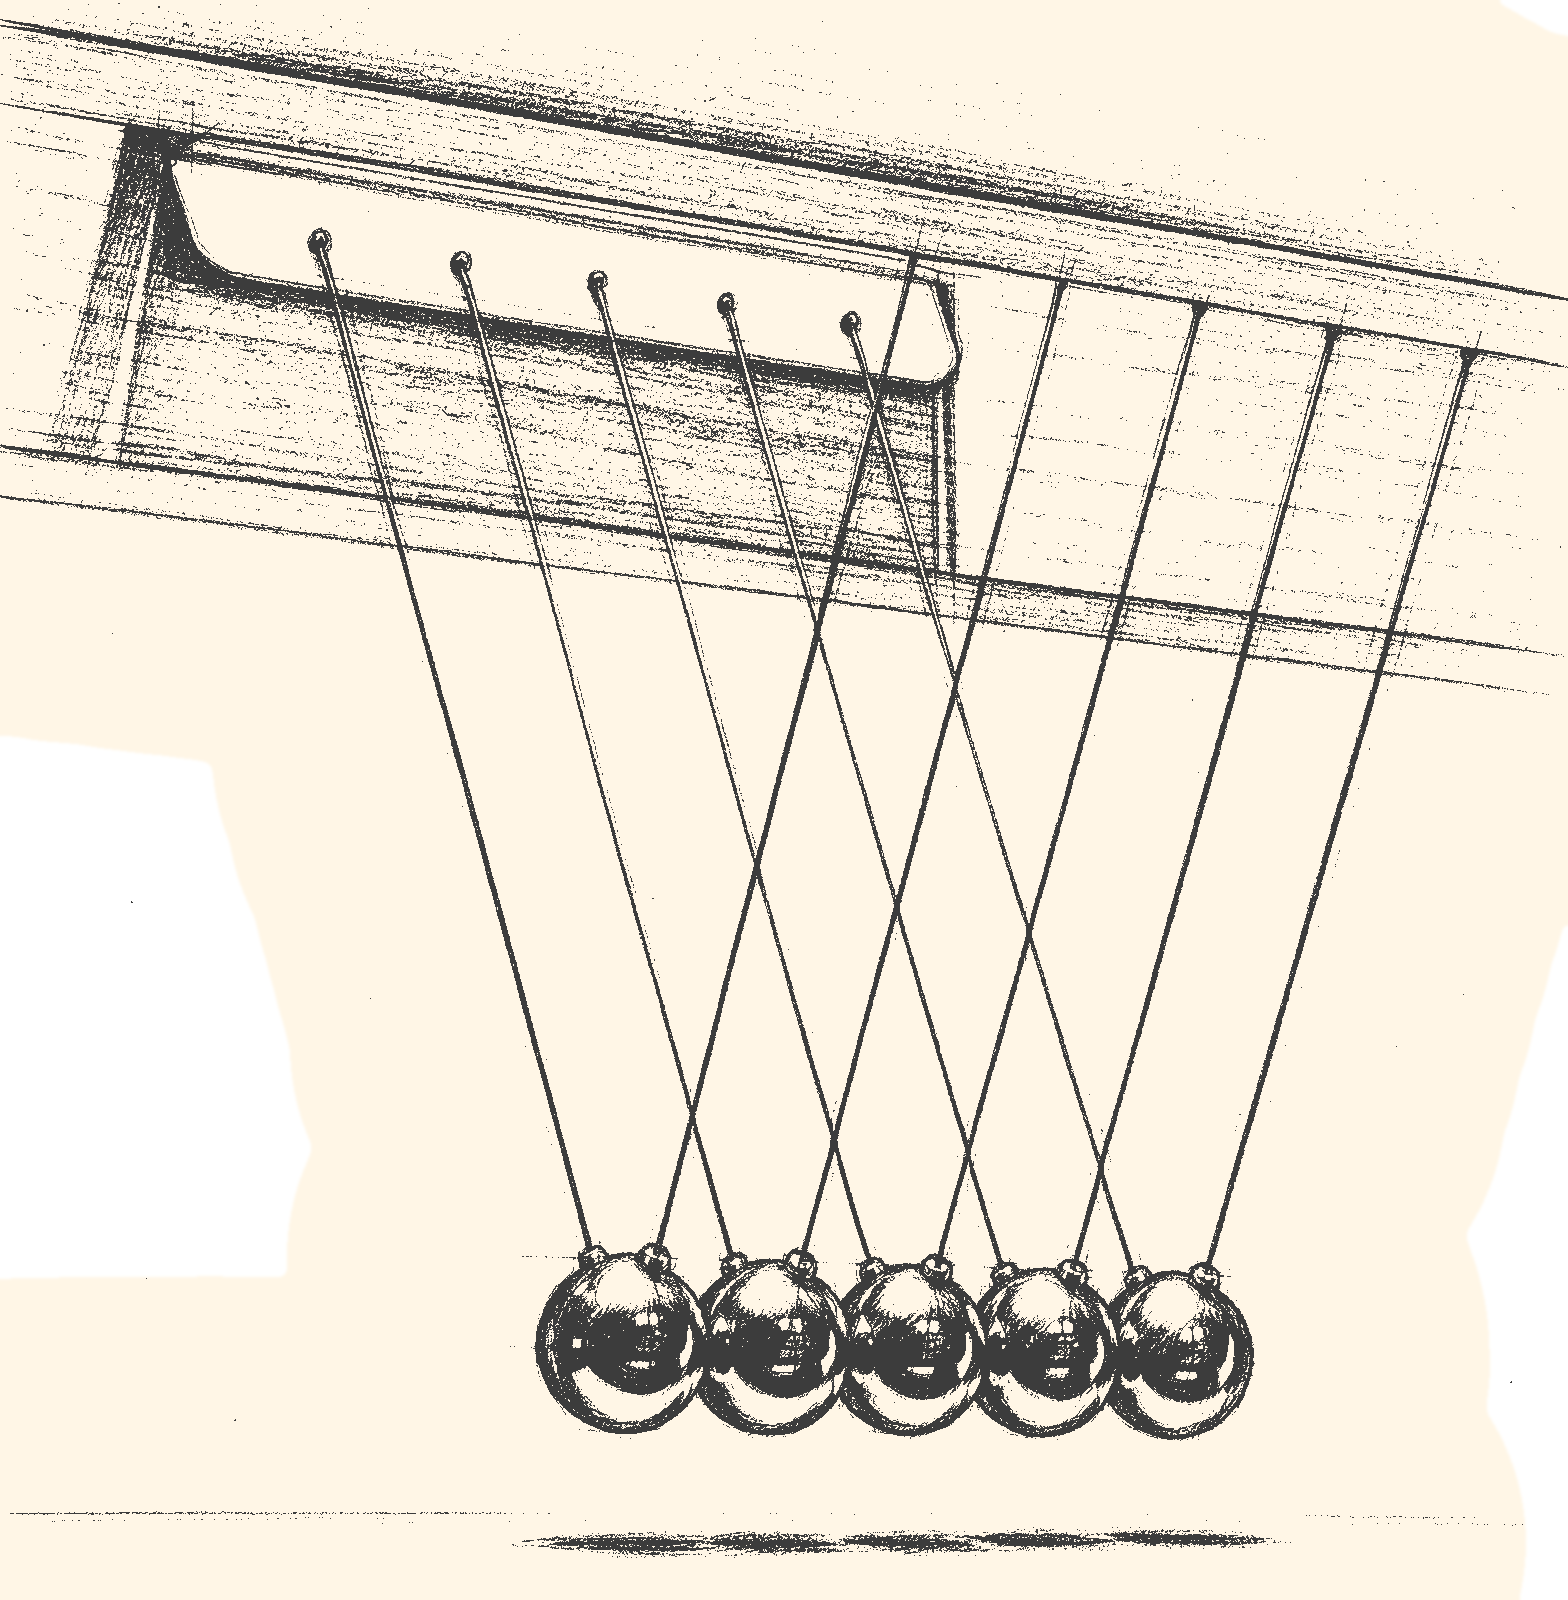
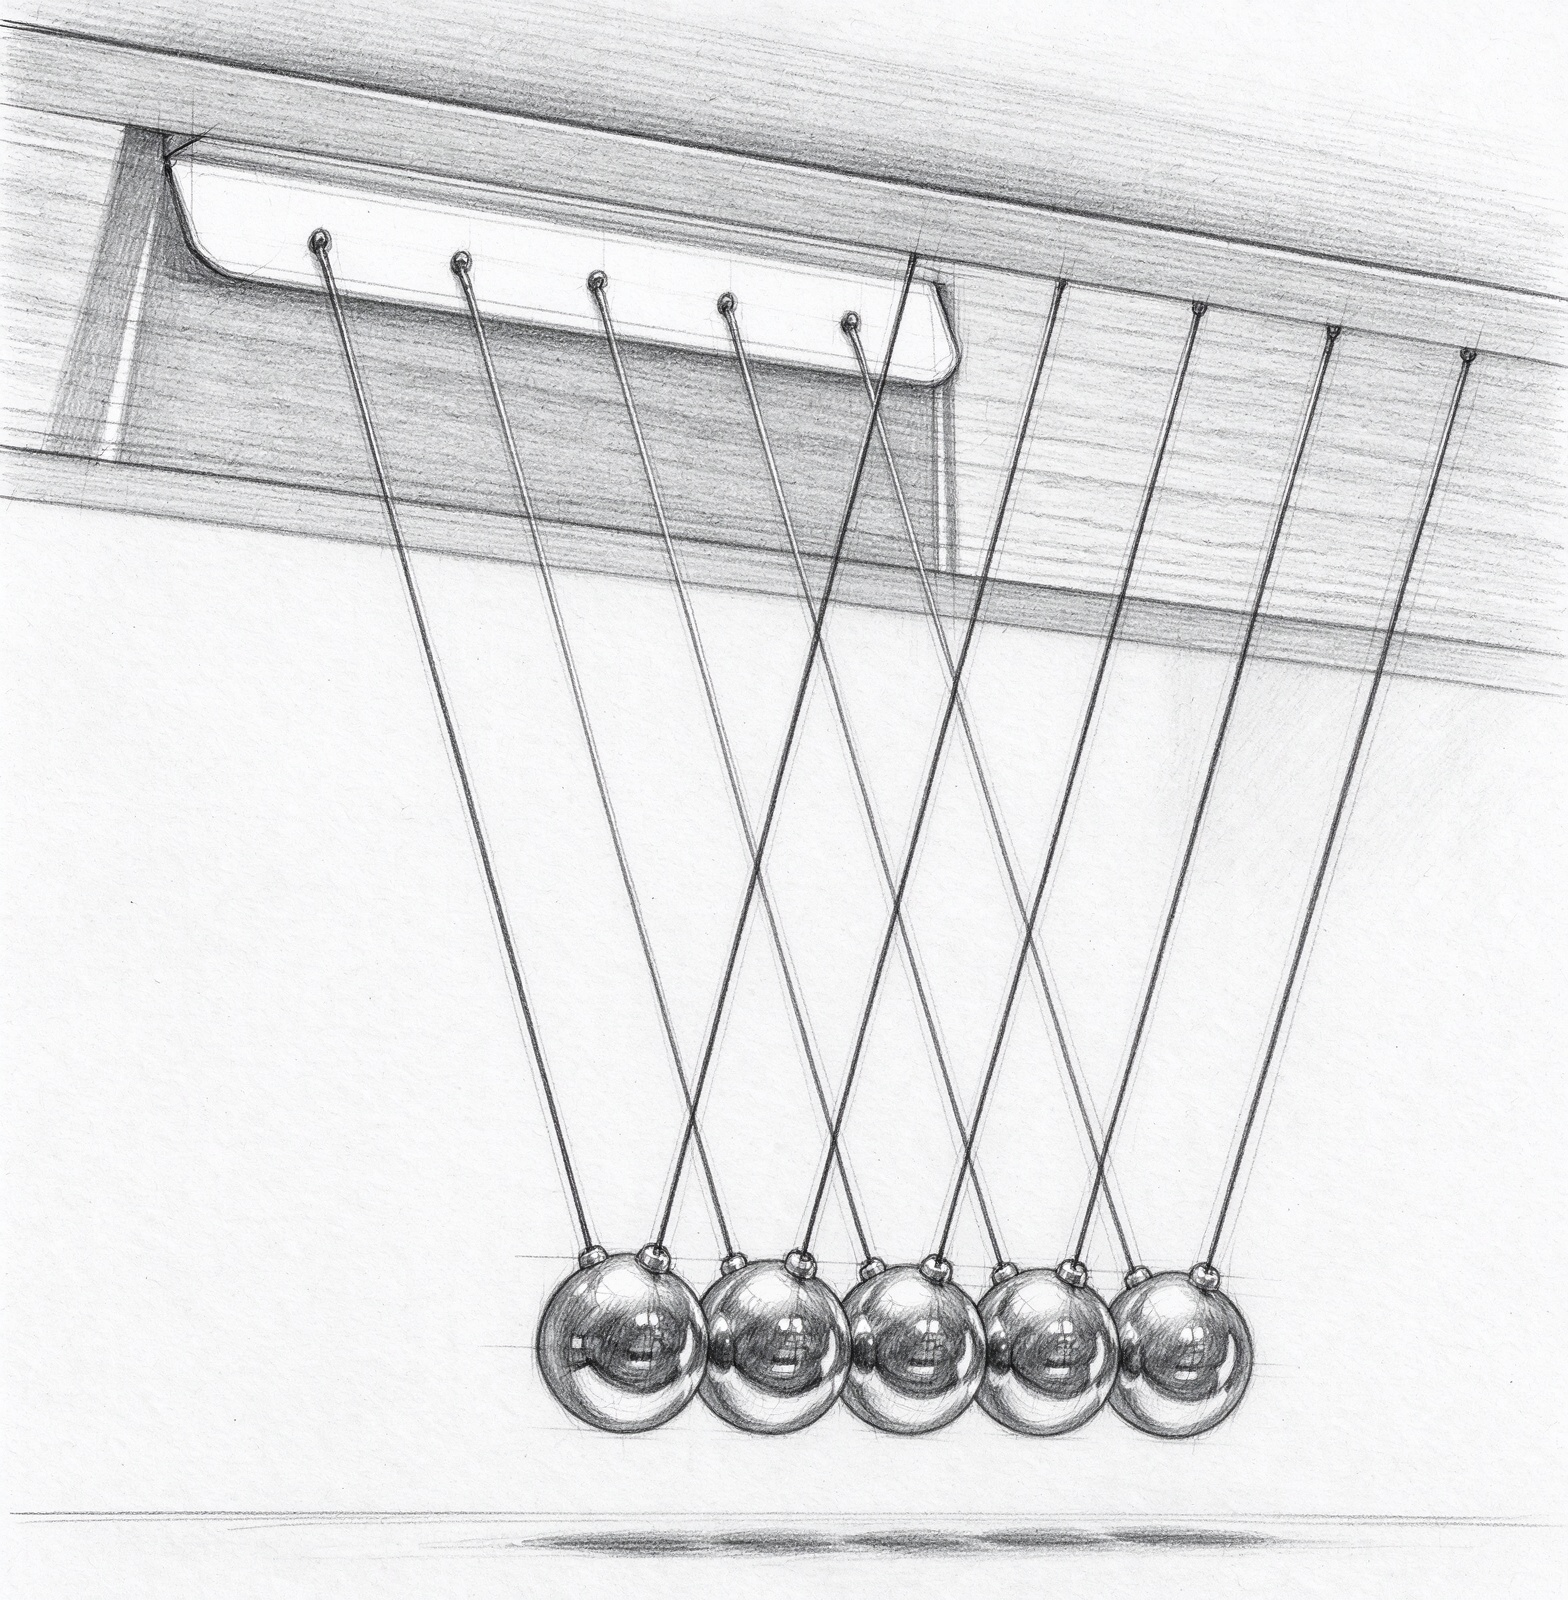
feat: sketch normalization workflow + normalize-sketch.py script

diff --git a/cases/newton-cradle/src/main.js b/cases/newton-cradle/src/main.js
@@ -68,6 +68,7 @@ class App {
     this.btnView3D = document.getElementById('btn-view-3d');
     this.btnReset = document.getElementById('btn-reset');
     this.soundBtn = document.getElementById('panel-sound-btn');
+    this.morphSlider = document.getElementById('morph-slider');
     this.scrubberMute = document.getElementById('scrubber-mute');
     this.playerScrubber = document.getElementById('player-scrubber');
     this.scrubberPlay = document.getElementById('scrubber-play');
@@ -221,7 +222,7 @@ class App {
 
       const img = texture.image;
       const aspect = img.width / img.height;       // w / h
-      const standH = 0.35;                           // match cradle 3D height
+      const standH = 0.37;                           // = 3D model total height (L + ballR + beam)
       const standW = standH * aspect;
 
       const geom = new THREE.PlaneGeometry(standW, standH);
@@ -267,13 +268,15 @@ class App {
   }
 
   autoFitDistance(viewName, margin = 1.6) {
-    const box = new THREE.Box3().setFromObject(this.mechanism.group);
-    if (box.isEmpty()) {
-      // No model yet (SKETCH/LIFT): fit the paper with desk visible
-      return this.getFitDistance(2.5, 1.5);
+    const modelVisible = this.mechanism.group.visible && this.mechanism.group.children.length > 0;
+    if (!modelVisible) return this.getFitDistance(3.4, 2.4);
+    // Cache the model bbox once (first time model appears) — don't recompute each step
+    if (!this._modelBBox) {
+      const box = new THREE.Box3().setFromObject(this.mechanism.group);
+      if (!box.isEmpty()) this._modelBBox = box;
+      else return this.getFitDistance(3.4, 2.4);
     }
-    // Model visible: fit the model itself
-    const size = box.getSize(new THREE.Vector3());
+    const size = this._modelBBox.getSize(new THREE.Vector3());
     let w, h;
     if (viewName === 'Top') { w = size.x; h = size.z; }
     else if (viewName === 'Side') { w = size.x; h = size.y; }
@@ -383,6 +386,7 @@ class App {
   resetToFirstFrame() {
     if (this.tourAbortController) { this.tourAbortController.abort(); this.tourAbortController = null; }
     this.isTourRunning = true;
+    this._modelBBox = null;
     this.setPlayButtonState(false);
     this.setSlowMo(false);
 
@@ -500,6 +504,67 @@ class App {
       this.setCameraView('Hero', 0);
     }
     this.physicsCard.style.opacity = (i === 4) ? '1' : '0';
+
+    // Update sketch2sim badge + slider
+    const badge = document.getElementById('morph-stage');
+    if (badge) {
+      const names = ['SKETCH','LIFT','MODEL','MATERIAL','PHYSICS','PLAY','REPLAY','BUILD'];
+      badge.textContent = names[i] || '';
+    }
+    if (this.morphSlider) this.morphSlider.value = Math.round((i / 7) * 100);
+  }
+
+  // Continuous morph: v = 0..100 (0=SKETCH, 33=LIFT, 66=MODEL, 100=MATERIAL)
+  // Does NOT change camera view — only morphs the visual state.
+  applyMorphToStage(v) {
+    const m = this.mechanism;
+    if (v <= 0) {
+      this.environment.showPaperSketch();
+      if (m) m.group.visible = false;
+      if (this.cutoutMesh) this.cutoutMesh.visible = false;
+      return;
+    }
+    if (v <= 33) {
+      this.environment.hidePaperSketch();
+      const k = v / 33;
+      if (m) m.group.visible = false;
+      if (this.cutoutMesh) {
+        this.cutoutMesh.visible = true;
+        this.cutoutMesh.rotation.x = -Math.PI / 2 + k * (Math.PI / 2);
+        this.cutoutMesh.material.opacity = 1;
+      }
+      return;
+    }
+    if (v <= 66) {
+      const k = (v - 33) / 33;
+      this.environment.hidePaperSketch();
+      if (this.cutoutMesh) {
+        this.cutoutMesh.material.opacity = 1 - k;
+        if (k >= 1) this.cutoutMesh.visible = false;
+      }
+      if (m) {
+        m.group.visible = true;
+        m.setMaterialMorph(0);
+      }
+      return;
+    }
+    const k = (v - 66) / 34;
+    this.environment.hidePaperSketch();
+    if (this.cutoutMesh) this.cutoutMesh.visible = false;
+    if (m) {
+      m.group.visible = true;
+      m.setMaterialMorph(k);
+    }
+  }
+
+  updateMorphStage(v) {
+    const el = document.getElementById('morph-stage');
+    if (!el) return;
+    let name = 'SKETCH';
+    if (v > 16 && v <= 49) name = 'LIFT';
+    else if (v > 49 && v <= 83) name = 'MODEL';
+    else if (v > 83) name = 'MATERIAL';
+    el.textContent = name;
   }
 
   showPhysicsCard(ms = 2500) {
@@ -830,6 +895,24 @@ class App {
       const muted = sound.toggleMute();
       this.soundBtn.style.opacity = muted ? '0.4' : '1';
     });
+
+    // sketch2sim slider: continuous morph 0..100
+    if (this.morphSlider) {
+      this.morphSlider.addEventListener('input', (e) => {
+        const v = parseInt(e.target.value);
+        this.applyMorphToStage(v);
+        this.updateMorphStage(v);
+      });
+      this.morphSlider.addEventListener('change', () => {
+        const snaps = [0, 33, 66, 100];
+        const v = parseInt(this.morphSlider.value);
+        let best = snaps[0];
+        for (const s of snaps) if (Math.abs(v - s) < Math.abs(v - best)) best = s;
+        this.morphSlider.value = best;
+        this.applyMorphToStage(best);
+        this.updateMorphStage(best);
+      });
+    }
     this.scrubberMute.addEventListener('click', () => {
       const muted = sound.toggleMute();
       this.scrubberMute.style.opacity = muted ? '0.4' : '1';

diff --git a/cases/newton-cradle/index.html b/cases/newton-cradle/index.html
@@ -168,18 +168,32 @@
           </span>
         </div>
       </div>
-      <!-- Card 3: Playback -->
-      <div class="panel-section throw-section" style="padding:8px 12px;flex:1;display:flex;flex-direction:column;justify-content:center;gap:6px;">
-        <div style="display:flex;gap:4px;">
-          <button id="btn-toggle-slowmo" class="action-btn btn-primary" style="padding:4px 8px;font-size:11px;flex:1;">Slow</button>
-          <button id="btn-bidir-play" class="action-btn btn-primary" style="padding:4px 8px;font-size:11px;flex:1;">Play</button>
+      <!-- Card 3: sketch2sim -->
+      <div class="panel-section throw-section" style="padding:8px 12px;flex:1;display:flex;flex-direction:column;justify-content:space-between;gap:4px;">
+        <div class="ctrl-group">
+          <div class="ctrl-label-row">
+            <label>sketch2sim</label>
+            <span class="value-badge" id="morph-stage">MATERIAL</span>
+          </div>
+          <input type="range" id="morph-slider" min="0" max="100" value="100" step="1">
+          <div class="morph-scale">
+            <span class="morph-tick t0"></span>
+            <span class="morph-tick t33"></span>
+            <span class="morph-tick t66"></span>
+            <span class="morph-tick t100"></span>
+          </div>
         </div>
-        <div style="display:flex;gap:4px;">
-          <button id="btn-reset" class="action-btn" style="padding:4px 8px;font-size:11px;flex:1;">Reset</button>
-          <button id="panel-sound-btn" class="action-btn icon-only" title="Toggle Sound" style="padding:4px 6px;">
+        <div class="panel-footer">
+          <button id="btn-reset" class="action-btn">Reset</button>
+          <button id="panel-sound-btn" class="action-btn icon-only" title="Toggle Sound">
             <svg width="14" height="14" viewBox="0 0 24 24" fill="none" stroke="currentColor" stroke-width="2" stroke-linecap="round" stroke-linejoin="round"><polygon points="11 5 6 9 2 9 2 15 6 15 11 19 11 5"></polygon><path d="M15.54 8.46a5 5 0 0 1 0 7.07"></path></svg>
           </button>
         </div>
+      </div>
+      <!-- Card 4: Playback -->
+      <div class="panel-section throw-section" style="padding:8px 12px;flex:1;display:flex;flex-direction:column;justify-content:space-between;gap:4px;">
+        <button id="btn-toggle-slowmo" class="action-btn btn-primary" style="padding:6px 8px;font-size:11px;">Slow</button>
+        <button id="btn-bidir-play" class="action-btn btn-primary" style="padding:6px 8px;font-size:11px;">Play</button>
       </div>
       </div>
   </div>

diff --git a/cases/newton-cradle/src/environment.js b/cases/newton-cradle/src/environment.js
@@ -30,6 +30,7 @@ export class Environment {
     // 2. White Paper Sheet — thin box with visible edge, casts real shadow
     const paperT = 0.006;
     this.paperSketchTexture = paperTexture;
+    this.paperSketchTexture.colorSpace = THREE.SRGBColorSpace;
     this.paperCleanTexture = paperCleanTexture || paperTexture;
     this._paperSketchVisible = true;
 

diff --git a/skill/sketch2sim/scripts/normalize-sketch.py b/skill/sketch2sim/scripts/normalize-sketch.py
@@ -1,0 +1,70 @@
+#!/usr/bin/env python3
+"""
+normalize-sketch.py — process user's raw sketch into standard assets.
+
+Usage:
+  python3 normalize-sketch.py <original.png> <output_dir> [label_height_fraction]
+
+Steps:
+  1. Find content bbox (non-white pixels), crop with padding → cutout.png
+  2. Composite onto cream A4 → sketch.jpg
+
+label_height_fraction: how tall the label is on the A4 (0.0–1.0).
+  Default 0.28. After model is built, set this to model_height / 1.85.
+"""
+import sys, os
+from PIL import Image
+
+CREAM = (247, 244, 234, 255)
+PAPER_W, PAPER_H = 1080, 740  # A4 texture resolution
+PAD = 30  # pixels around content bbox
+THRESHOLD = 230  # below = content
+
+def main():
+    src = sys.argv[1]
+    outdir = sys.argv[2]
+    frac = float(sys.argv[3]) if len(sys.argv) > 3 else 0.28
+    os.makedirs(outdir, exist_ok=True)
+
+    img = Image.open(src).convert('RGB')
+    gray = img.convert('L')
+    px = gray.load()
+    w, h = img.size
+
+    # Find content bbox
+    min_x, min_y, max_x, max_y = w, h, 0, 0
+    found = False
+    for y in range(h):
+        for x in range(w):
+            if px[x, y] < THRESHOLD:
+                found = True
+                if x < min_x: min_x = x
+                if x > max_x: max_x = x
+                if y < min_y: min_y = y
+                if y > max_y: max_y = y
+    if not found:
+        print("ERROR: no content found"); sys.exit(1)
+
+    min_x = max(0, min_x - PAD)
+    min_y = max(0, min_y - PAD)
+    max_x = min(w - 1, max_x + PAD)
+    max_y = min(h - 1, max_y + PAD)
+
+    cutout = img.crop((min_x, min_y, max_x + 1, max_y + 1))
+    cutout.save(os.path.join(outdir, 'cutout.png'))
+    print(f"cutout.png: {cutout.size}")
+
+    # Composite on cream A4
+    paper = Image.new('RGBA', (PAPER_W, PAPER_H), CREAM)
+    target_h = int(PAPER_H * frac)
+    ratio = target_h / cutout.height
+    target_w = int(cutout.width * ratio)
+    cutout_r = cutout.resize((target_w, target_h), Image.LANCZOS)
+    x = (PAPER_W - target_w) // 2
+    y = (PAPER_H - target_h) // 2
+    paper.paste(cutout_r, (x, y))
+    paper.convert('RGB').save(os.path.join(outdir, 'sketch.jpg'), quality=90)
+    print(f"sketch.jpg: {PAPER_W}x{PAPER_H}, label {target_w}x{target_h} at ({x},{y})")
+
+if __name__ == '__main__':
+    main()

diff --git a/skill/sketch2sim/references/visual-standards.md b/skill/sketch2sim/references/visual-standards.md
@@ -114,3 +114,22 @@ Key points:
 - **margin = 1.6**: breathing room, not edge-to-edge.
 - On window resize, re-call `setCameraView(currentView, 0)` to re-fit.
 - Empty-box fallback = paper view (2.5×1.5), prevents errors.
+
+## Sketch normalization (user hand-drawn → standard assets)
+
+User provides one raw sketch photo. Process it into two assets:
+
+1. **`public/cutout_<slug>.png`** — tight rectangle crop of the sketch content
+   (find non-white bbox, add small padding, crop). Keep original image as-is,
+   no color processing, no transparency, no filling. Treat as a paper label.
+2. **`public/sketch_<slug>.jpg`** — the label pasted onto a clean cream A4
+   paper (2.7m × 1.85m world). Centered, with margin for pencil + eraser.
+
+**Hard sizing rule:**
+- Label height on paper = model's total bounding-box height (measured after
+  model loads). Default estimate until model exists.
+- Cutout plane (LIFT step) uses the same PNG at the same height.
+- Both centered at world X=0.12, Z=0.
+
+This guarantees: SKETCH label → LIFT standing label → MODEL white 3D all
+line up in size and position. No size jump between stages.

diff --git a/skill/sketch2sim/README.md b/skill/sketch2sim/README.md
@@ -131,6 +131,9 @@ All cases share the same look — copy verbatim:
 - **Background:** `#2e251d` (dark walnut).
 - **Tour banner:** no text — purely visual transition.
 - **Panel:** compact cards, English labels, `btn-primary` for action, `btn-secondary` for Reset.
+- **Sketch normalization:** raw photo → `scripts/normalize-sketch.py` → tight rectangle label
+  (`cutout.png`) on cream A4 (`sketch.jpg`). Label height = model height. No color filling,
+  no transparency — universal for any sketch type.
 
 ## Pitfalls
 

diff --git a/skill/sketch2sim/SKILL.md b/skill/sketch2sim/SKILL.md
@@ -126,6 +126,8 @@ or fix styling. Only pause for the three gates below.
 ### Step 1 — Recognition
 - **Read pitfalls:** [step1] #9, #10.
 - **Agent does:** read sketch part-by-part, output parts/joints/actuators JSON.
+- Run `scripts/normalize-sketch.py archive/original_<slug>.png public/` to produce
+  `cutout.png` (tight rectangle label) and `sketch.jpg` (label on cream A4).
 - No user pause.
 
 ### Step 2 — Spec
